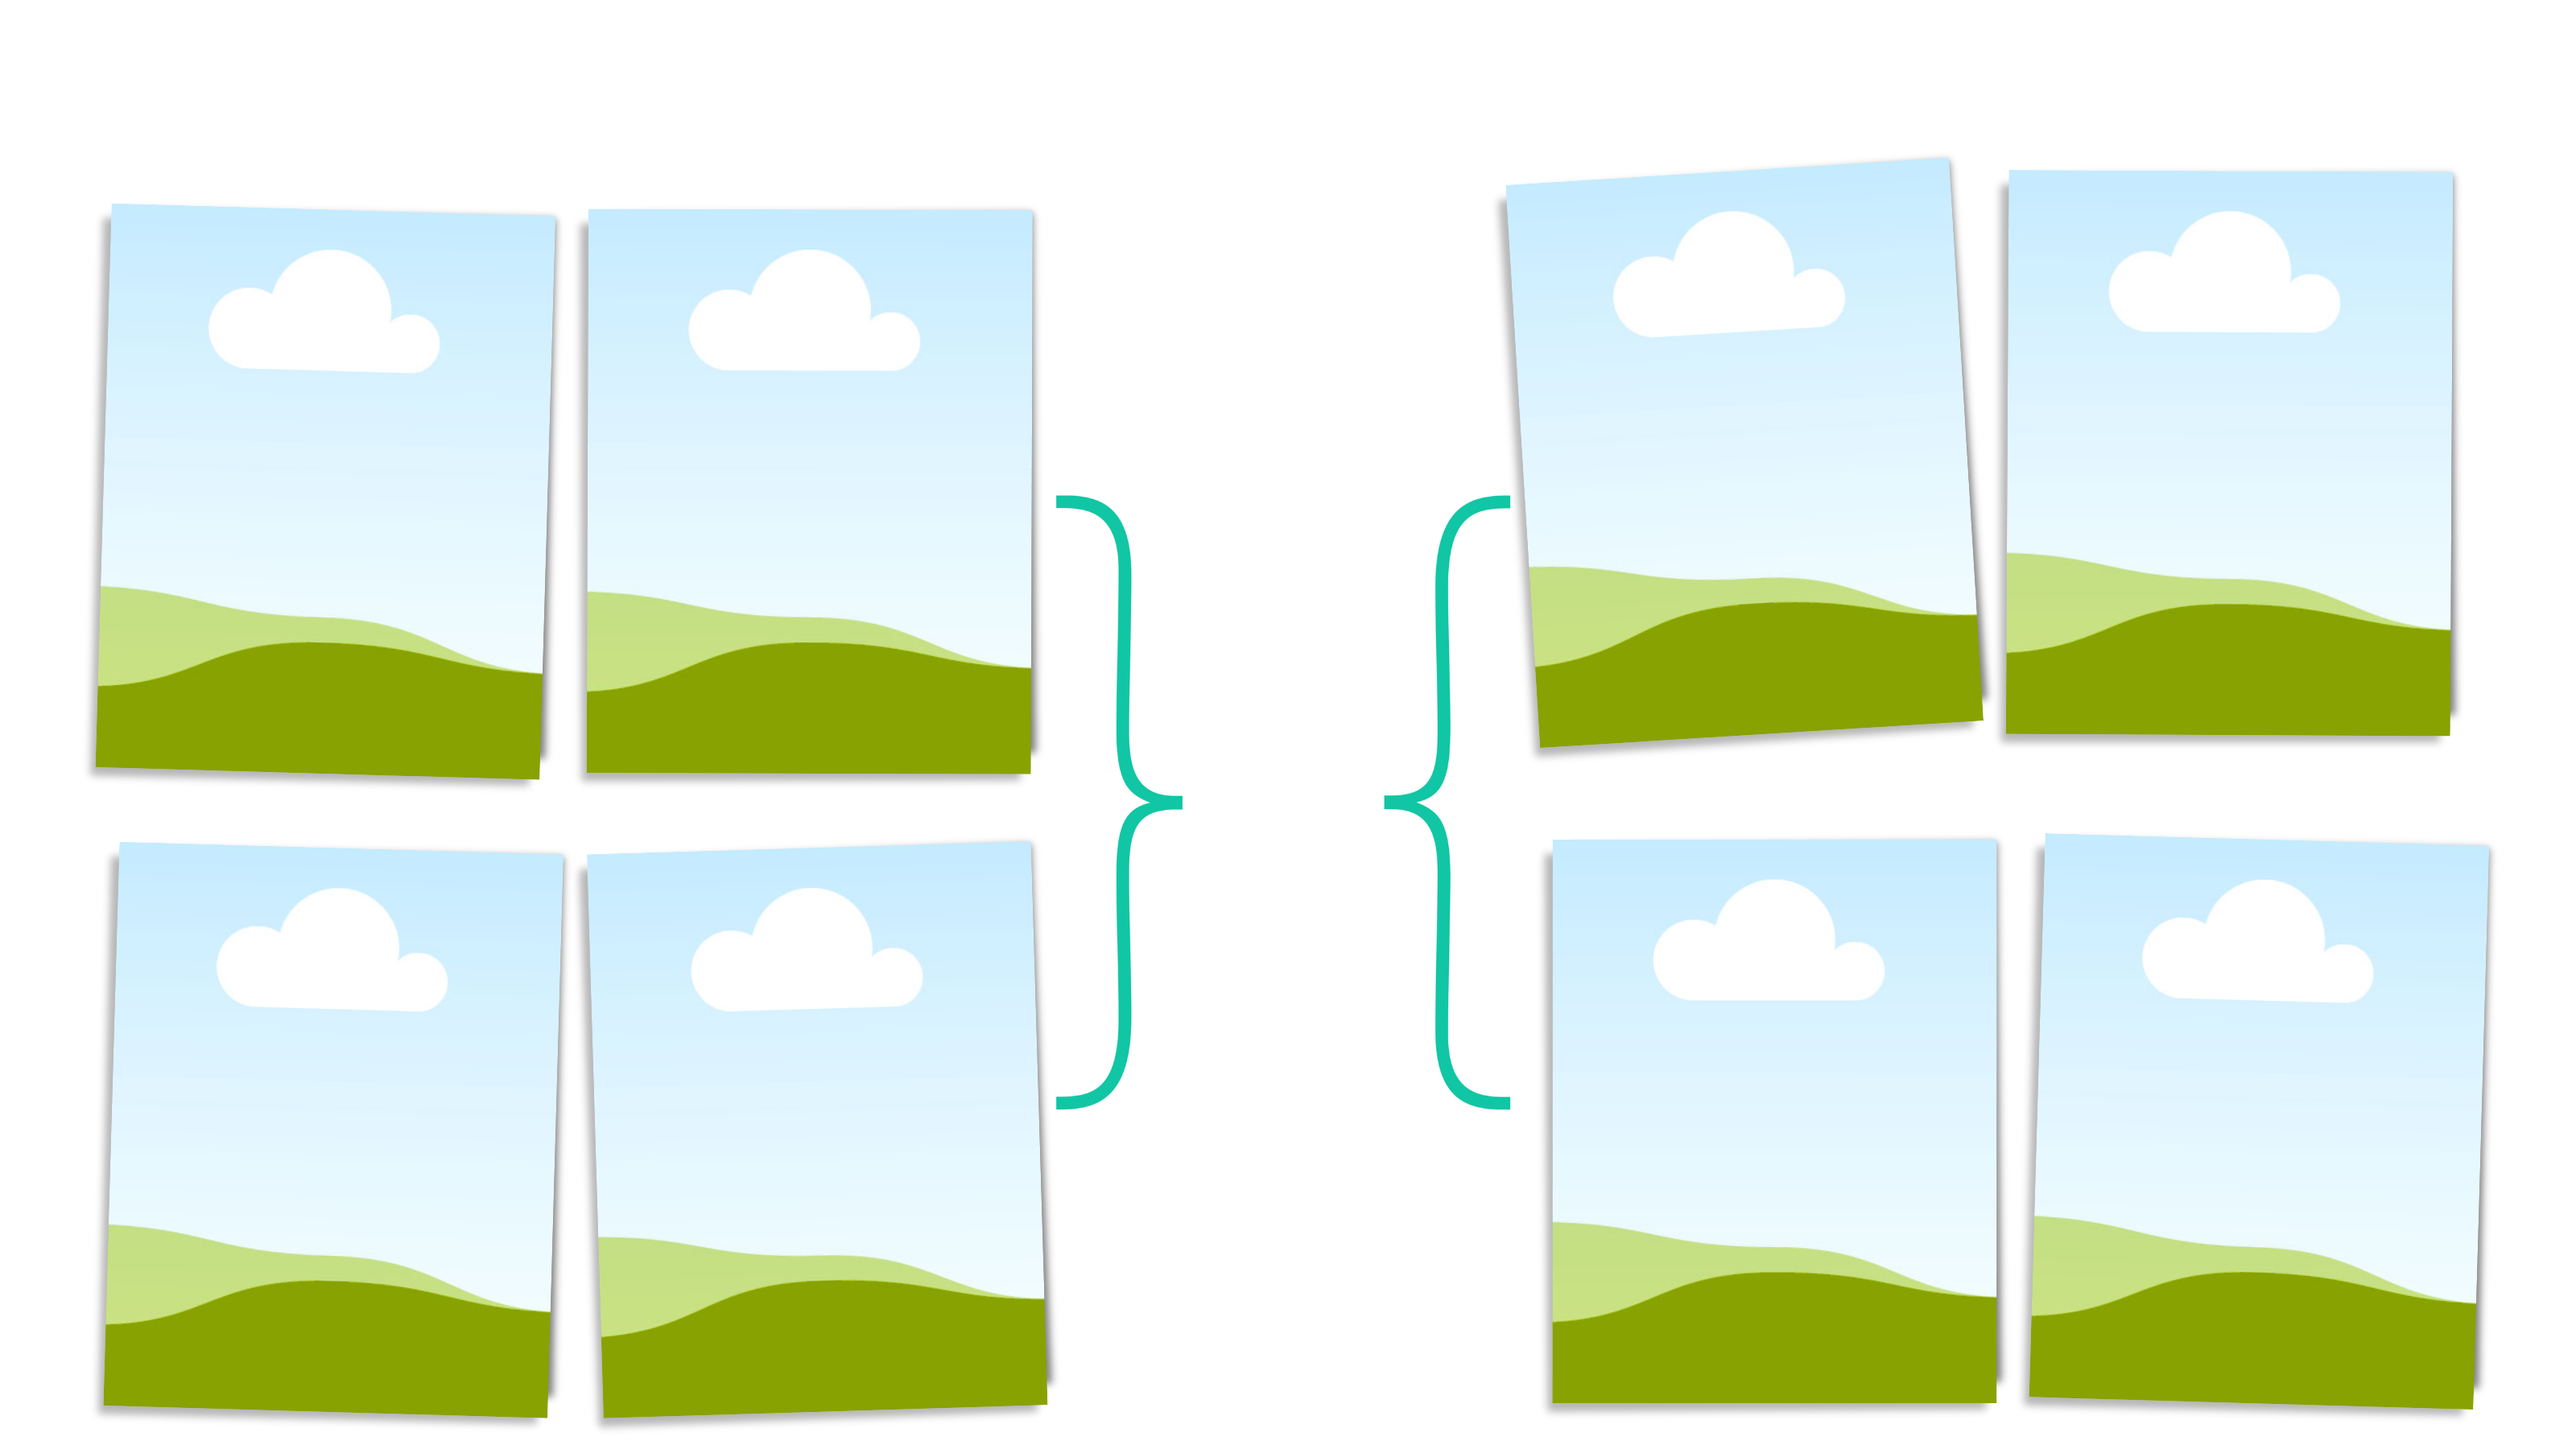
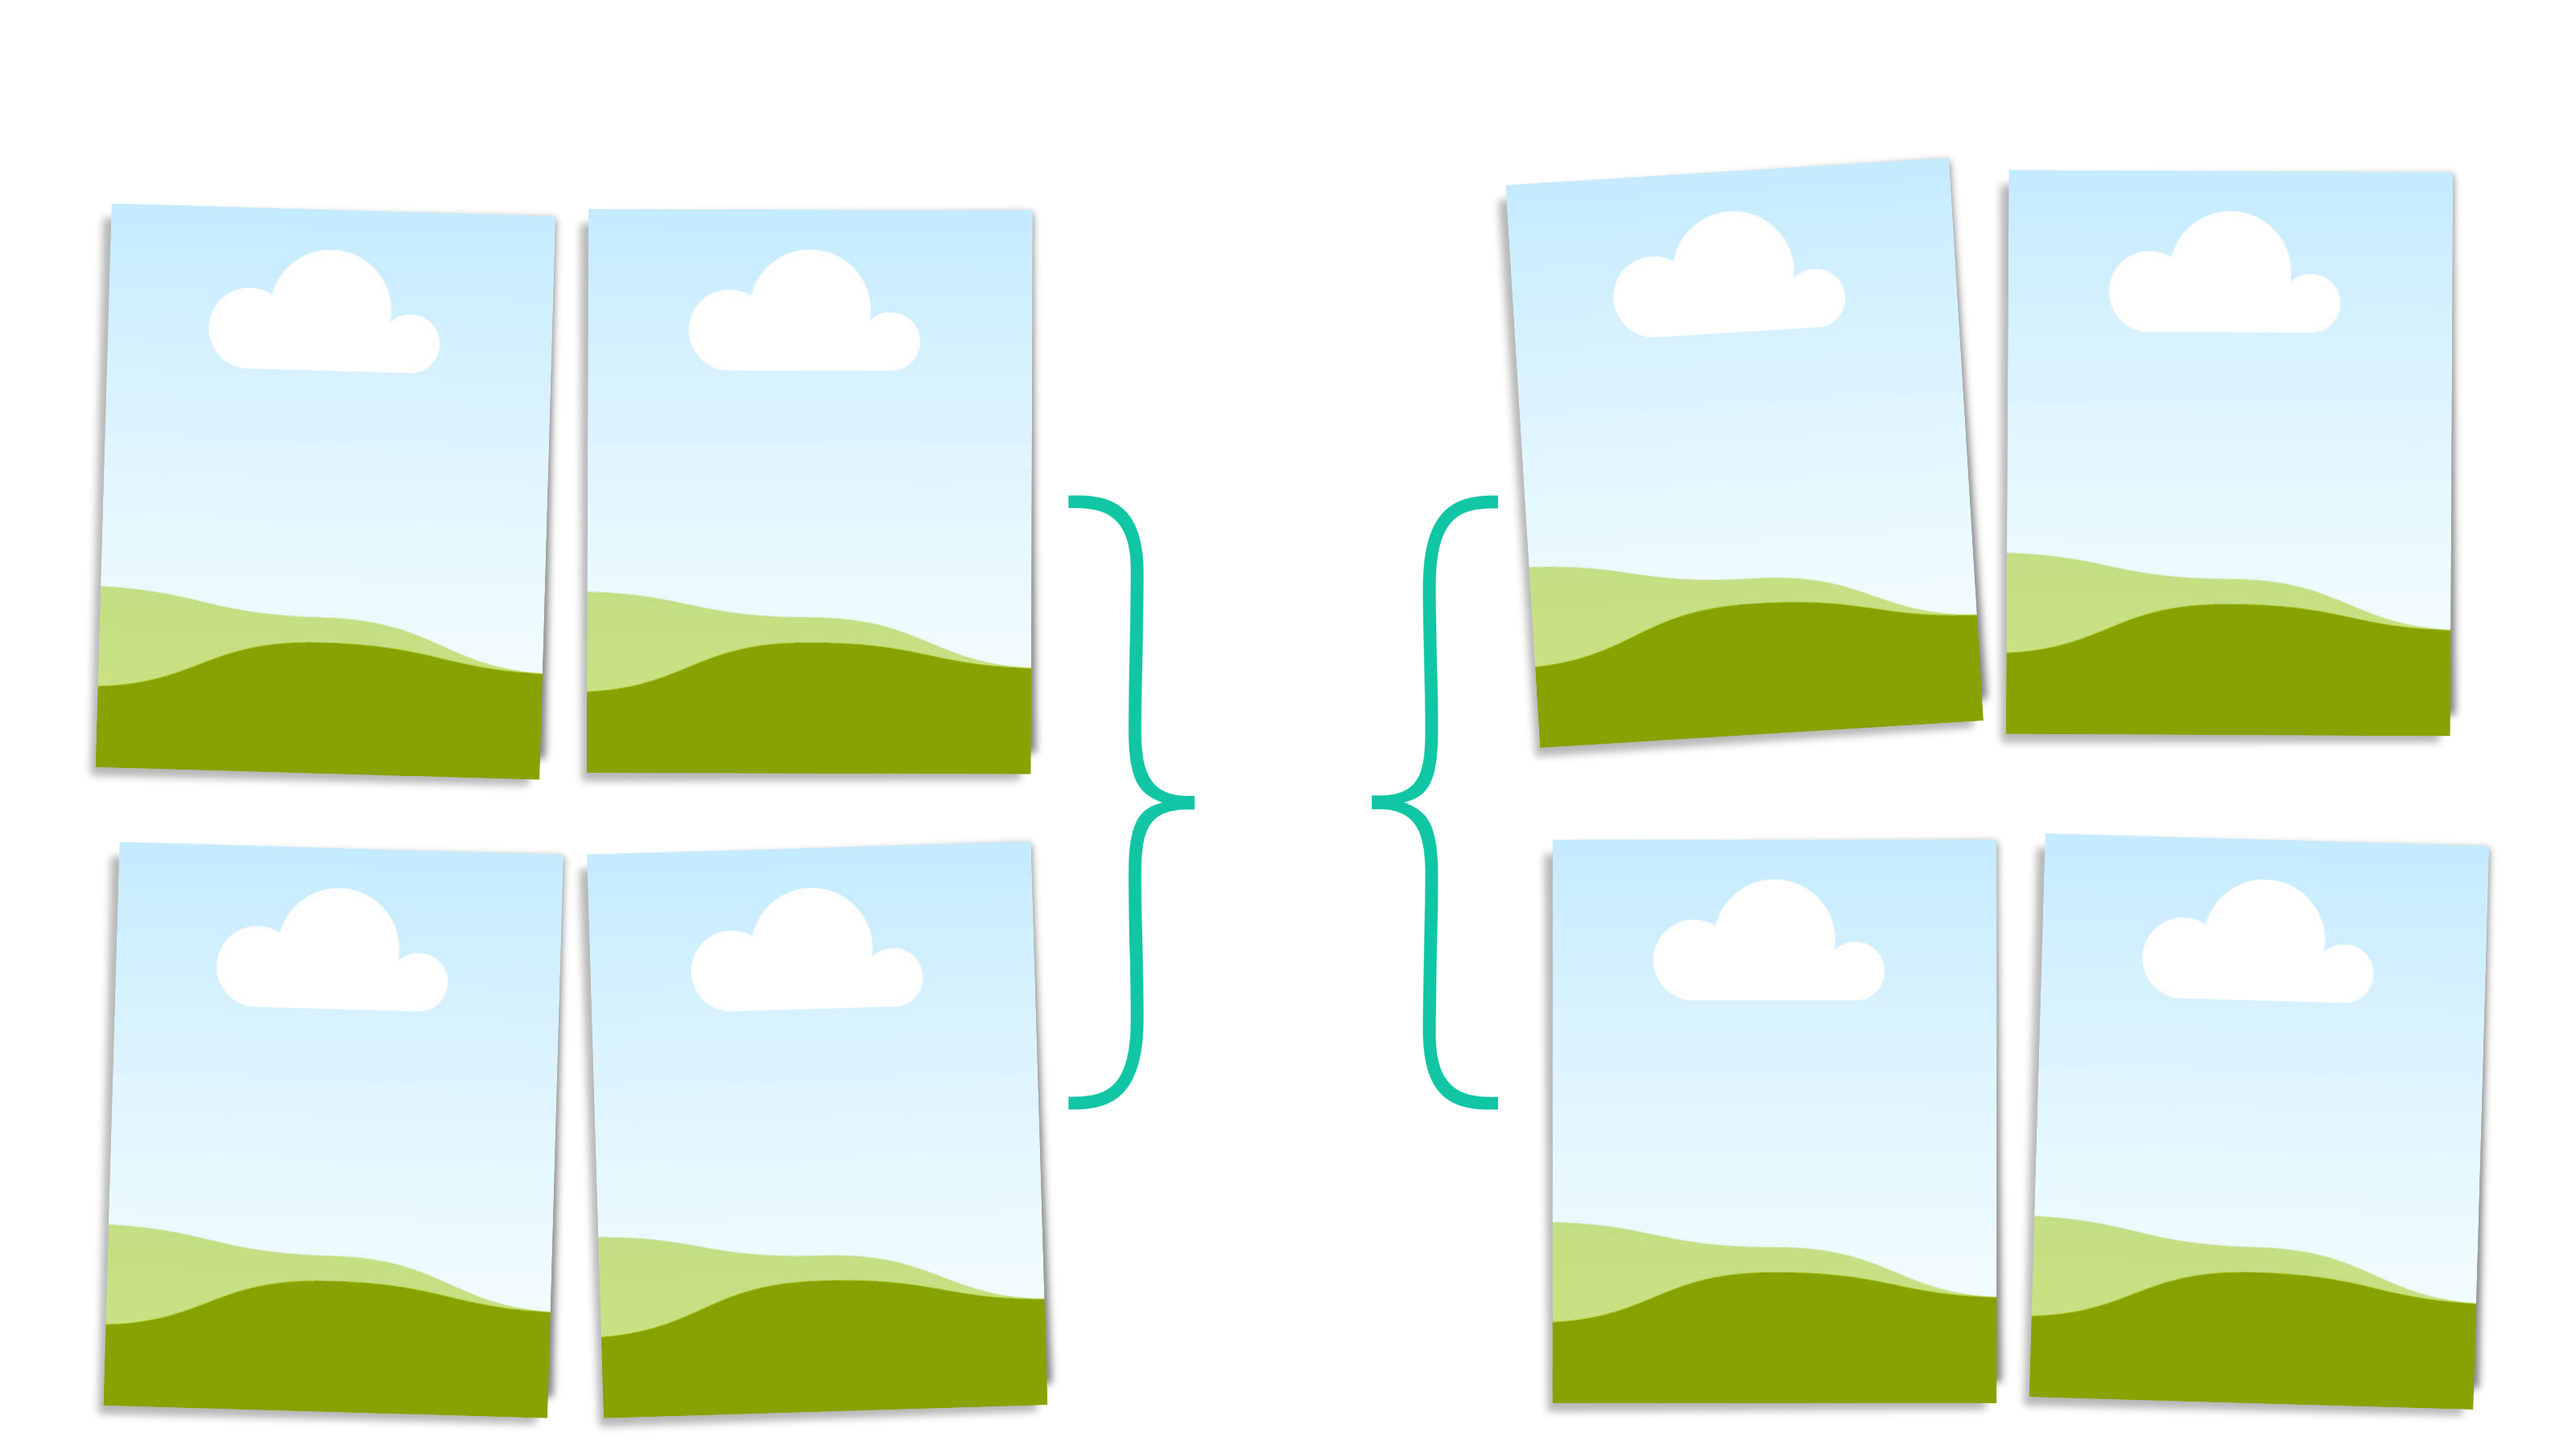
changes

Changed region(s): [[0.4062, 0.3422, 0.4688, 0.7778], [0.5312, 0.3422, 0.5938, 0.7467], [0.5625, 0.7467, 0.5938, 0.7778]]

diff --git a/cards.css b/cards.css
@@ -70,7 +70,7 @@
 .player-card[data-type="wta-125"] .title-event, .player-card[data-type="wta-tour"] .title-event { position: absolute; display: flex; flex-direction: column; align-items: center; justify-content: center; left: 50%; transform: translateX(-50%); top: .85%; width: 32%; height: 7.9%; padding: .4% .5%; border-radius: 1.1cqw; background: #7ed957; color: #fff; box-shadow: 0 .4cqw 1.2cqw #142a3640; }
 .title-event strong { display: block; flex: none; width: 100%; text-align: center; transform: translateY(calc(.7cqw + 2px)); font: 400 8.3cqw/.7 "Bebas Neue", sans-serif; white-space: nowrap; text-shadow: .1cqw .3cqw .5cqw #16392355; }
 .title-event span { display: block; flex: none; width: 100%; text-align: center; font: 400 2cqw/1 "Chunk Five", serif; }
-.title-event > span, .result-event > span, .draw-event > span { letter-spacing: .08em; }
+.title-event > span, .result-event > span, .draw-event > span, .schedule-tournament-button > span { letter-spacing: .08em; }
 .title-event > span, .result-event > span, .draw-event > span, .schedule-tournament-button > span { position: relative; top: 4px; }
 .title-event strong, .result-event strong, .draw-event strong, .schedule-tournament-button strong { position: relative; top: 1px; }
 .player-card[data-type="wta-tour"] .title-event { background: #699694; }
@@ -144,13 +144,13 @@
 .result-score-name > span { display: block; flex: none; white-space: nowrap; }
 .result-score-row[data-side="loser"] .result-score-name { top: calc(var(--row-top) - 3px); }
 .result-score-row.is-match-winner .result-score-name { color: #ffd400; }
-.result-score-sets { position: absolute; left: 1155px; top: var(--row-top); width: 160px; height: 110px; display: grid; grid-template-columns: repeat(2, 1fr); transform: translateY(6px); color: #fff; font: italic 700 104px/1 "Poppins", sans-serif; -webkit-text-stroke: 5px #000; paint-order: stroke fill; }
+.result-score-sets { position: absolute; left: 1155px; top: var(--row-top); width: 160px; height: 110px; display: grid; grid-template-columns: repeat(2, 1fr); transform: translateY(6px); color: #fff; font: italic 700 89px/1 "Poppins", sans-serif; -webkit-text-stroke: 5px #000; paint-order: stroke fill; }
 .result-content[data-sets="3"] .result-score-sets { left: 1163px; width: 216px; grid-template-columns: repeat(3, 1fr); }
 .result-score-sets > span { position: relative; display: flex; align-items: center; justify-content: center; }
 .result-score-row[data-side="loser"] .result-score-sets > span { top: -2px; }
 .result-score-sets .set-won { color: #ffd400; }
 .result-score-sets sup { align-self: flex-start; margin-top: 10px; font-size: 24px; -webkit-text-stroke: 3px #000; }
-.result-score-sets > .two-digit-score { font-size: 62px; }
+.result-score-sets > .two-digit-score { font-size: 47px; }
 .result-content[data-manual="true"] .itf-editable { pointer-events: auto; cursor: text; outline: 2px dashed #ffffff60; outline-offset: -3px; -webkit-user-select: text; user-select: text; }
 .result-content[data-manual="true"] :is([data-itf-field="player"], [data-itf-field="category"], [data-itf-field="tournament"]) { cursor: pointer; }
 .result-content[data-manual="true"] .result-round-heading { cursor: pointer; }

diff --git a/dist/cards.css b/dist/cards.css
@@ -70,7 +70,7 @@
 .player-card[data-type="wta-125"] .title-event, .player-card[data-type="wta-tour"] .title-event { position: absolute; display: flex; flex-direction: column; align-items: center; justify-content: center; left: 50%; transform: translateX(-50%); top: .85%; width: 32%; height: 7.9%; padding: .4% .5%; border-radius: 1.1cqw; background: #7ed957; color: #fff; box-shadow: 0 .4cqw 1.2cqw #142a3640; }
 .title-event strong { display: block; flex: none; width: 100%; text-align: center; transform: translateY(calc(.7cqw + 2px)); font: 400 8.3cqw/.7 "Bebas Neue", sans-serif; white-space: nowrap; text-shadow: .1cqw .3cqw .5cqw #16392355; }
 .title-event span { display: block; flex: none; width: 100%; text-align: center; font: 400 2cqw/1 "Chunk Five", serif; }
-.title-event > span, .result-event > span, .draw-event > span { letter-spacing: .08em; }
+.title-event > span, .result-event > span, .draw-event > span, .schedule-tournament-button > span { letter-spacing: .08em; }
 .title-event > span, .result-event > span, .draw-event > span, .schedule-tournament-button > span { position: relative; top: 4px; }
 .title-event strong, .result-event strong, .draw-event strong, .schedule-tournament-button strong { position: relative; top: 1px; }
 .player-card[data-type="wta-tour"] .title-event { background: #699694; }
@@ -144,13 +144,13 @@
 .result-score-name > span { display: block; flex: none; white-space: nowrap; }
 .result-score-row[data-side="loser"] .result-score-name { top: calc(var(--row-top) - 3px); }
 .result-score-row.is-match-winner .result-score-name { color: #ffd400; }
-.result-score-sets { position: absolute; left: 1155px; top: var(--row-top); width: 160px; height: 110px; display: grid; grid-template-columns: repeat(2, 1fr); transform: translateY(6px); color: #fff; font: italic 700 104px/1 "Poppins", sans-serif; -webkit-text-stroke: 5px #000; paint-order: stroke fill; }
+.result-score-sets { position: absolute; left: 1155px; top: var(--row-top); width: 160px; height: 110px; display: grid; grid-template-columns: repeat(2, 1fr); transform: translateY(6px); color: #fff; font: italic 700 89px/1 "Poppins", sans-serif; -webkit-text-stroke: 5px #000; paint-order: stroke fill; }
 .result-content[data-sets="3"] .result-score-sets { left: 1163px; width: 216px; grid-template-columns: repeat(3, 1fr); }
 .result-score-sets > span { position: relative; display: flex; align-items: center; justify-content: center; }
 .result-score-row[data-side="loser"] .result-score-sets > span { top: -2px; }
 .result-score-sets .set-won { color: #ffd400; }
 .result-score-sets sup { align-self: flex-start; margin-top: 10px; font-size: 24px; -webkit-text-stroke: 3px #000; }
-.result-score-sets > .two-digit-score { font-size: 62px; }
+.result-score-sets > .two-digit-score { font-size: 47px; }
 .result-content[data-manual="true"] .itf-editable { pointer-events: auto; cursor: text; outline: 2px dashed #ffffff60; outline-offset: -3px; -webkit-user-select: text; user-select: text; }
 .result-content[data-manual="true"] :is([data-itf-field="player"], [data-itf-field="category"], [data-itf-field="tournament"]) { cursor: pointer; }
 .result-content[data-manual="true"] .result-round-heading { cursor: pointer; }

diff --git a/dist/index.html b/dist/index.html
@@ -54,7 +54,7 @@
   </style>
   <link rel="preload" href="assets/fonts/chunk-five-regular.otf" as="font" type="font/otf" crossorigin>
   <link rel="preload" href="assets/fonts/bebas-neue-regular.ttf" as="font" type="font/ttf" crossorigin>
-  <link rel="stylesheet" href="cards.css?v=846ad122e1a1">
+  <link rel="stylesheet" href="cards.css?v=613bbef0ac62">
 </head>
 <body>
   <main class="page">
